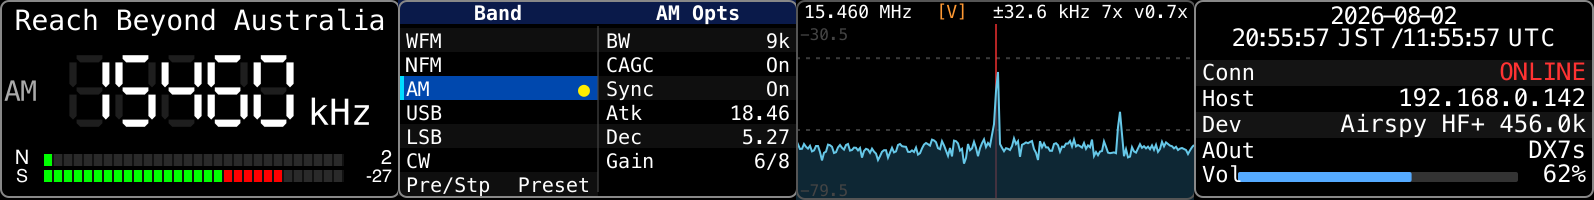
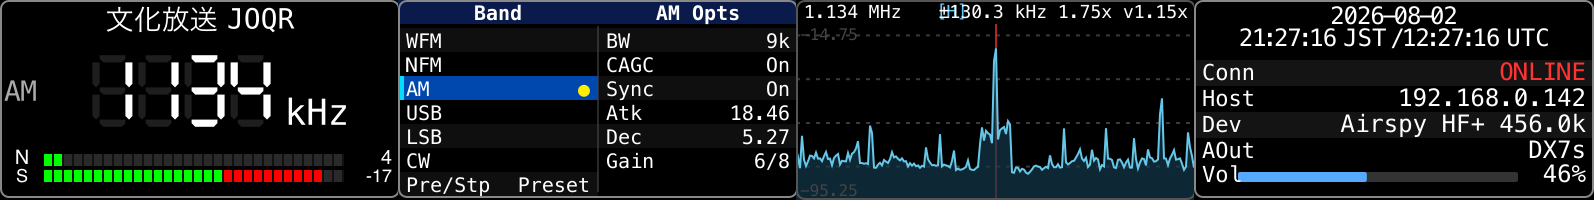
docs: refresh Volume-panel screenshots and clock wording
- lcd-volume.png: recaptured with the two-line date + JST/UTC clock
  (was the May clockless-era HH:MM panel).
- lcd-combined.png: recaptured post-kerning (the previous refresh was
  taken just before the JST/UTC letter-run fix landed).
- dial-layouts.md: the clock is a Volume-panel feature, not a Tune-dial
  one; volume range is 0-100 % (was stale 0-150 %); describe the
  two-line clock and the fixed per-character cells.

diff --git a/docs/dial-layouts.md b/docs/dial-layouts.md
@@ -16,11 +16,11 @@ One-shot preset-tune button. Configure a preset slot (1-N) in the PI; pressing t
 
 ## Deck RX Dial (Tune)
 
-VFO / preset scrolling, 7-seg frequency, FM stereo lock badge, ATS-Mini-style N (SNR) / S (RSSI) bars, `HH:MM TZ` clock; long-press (≥ 2 s) for master ON/OFF. Header carries the JP DB-resolved station name + 識別信号 callsign + 送信地 (e.g. `NHK第1 JOAK (東京)`). See the Tune dial in the top composite (`lcd-combined.png`) — a synthetic single-dial render isn't shown here because the harness has no SpyServer connect, so the body never tunes a freq.
+VFO / preset scrolling, 7-seg frequency, FM stereo lock badge, ATS-Mini-style N (SNR) / S (RSSI) bars; long-press (≥ 2 s) for master ON/OFF. (The clock lives on the Volume + Status dial below.) Header carries the JP DB-resolved station name + 識別信号 callsign + 送信地 (e.g. `NHK第1 JOAK (東京)`). See the Tune dial in the top composite (`lcd-combined.png`) — a synthetic single-dial render isn't shown here because the harness has no SpyServer connect, so the body never tunes a freq.
 
 ## Deck RX Volume + Status
 
-0–150 % volume / mute, conn state, host, device, audio output, icecast publish health. Title bar carries the `HH:MM TZ` clock so the Tune dial's freq area is left to the 7-seg.
+0–100 % volume / mute, conn state, host, device, audio output, icecast publish health. The title band carries a live two-line clock — `YYYY-MM-DD` over `hh:mm:ss JST /hh:mm:ss UTC` — so the Tune dial's freq area is left to the 7-seg. Clock glyphs sit in fixed per-character cells (the SD app substitutes a proportional font for SVG text, so a naturally-centred line would shift on every seconds tick).
 
 ![Volume + Status dial](lcd-volume.png)
 
